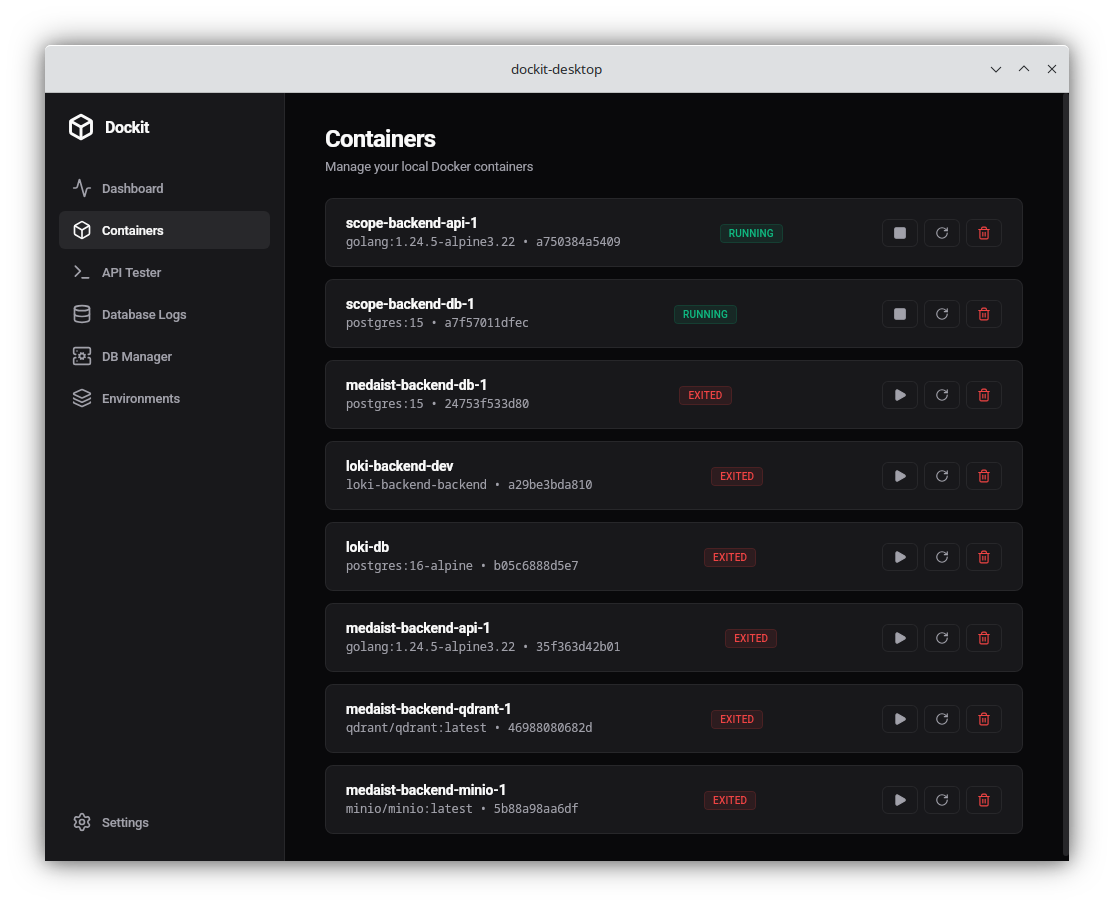
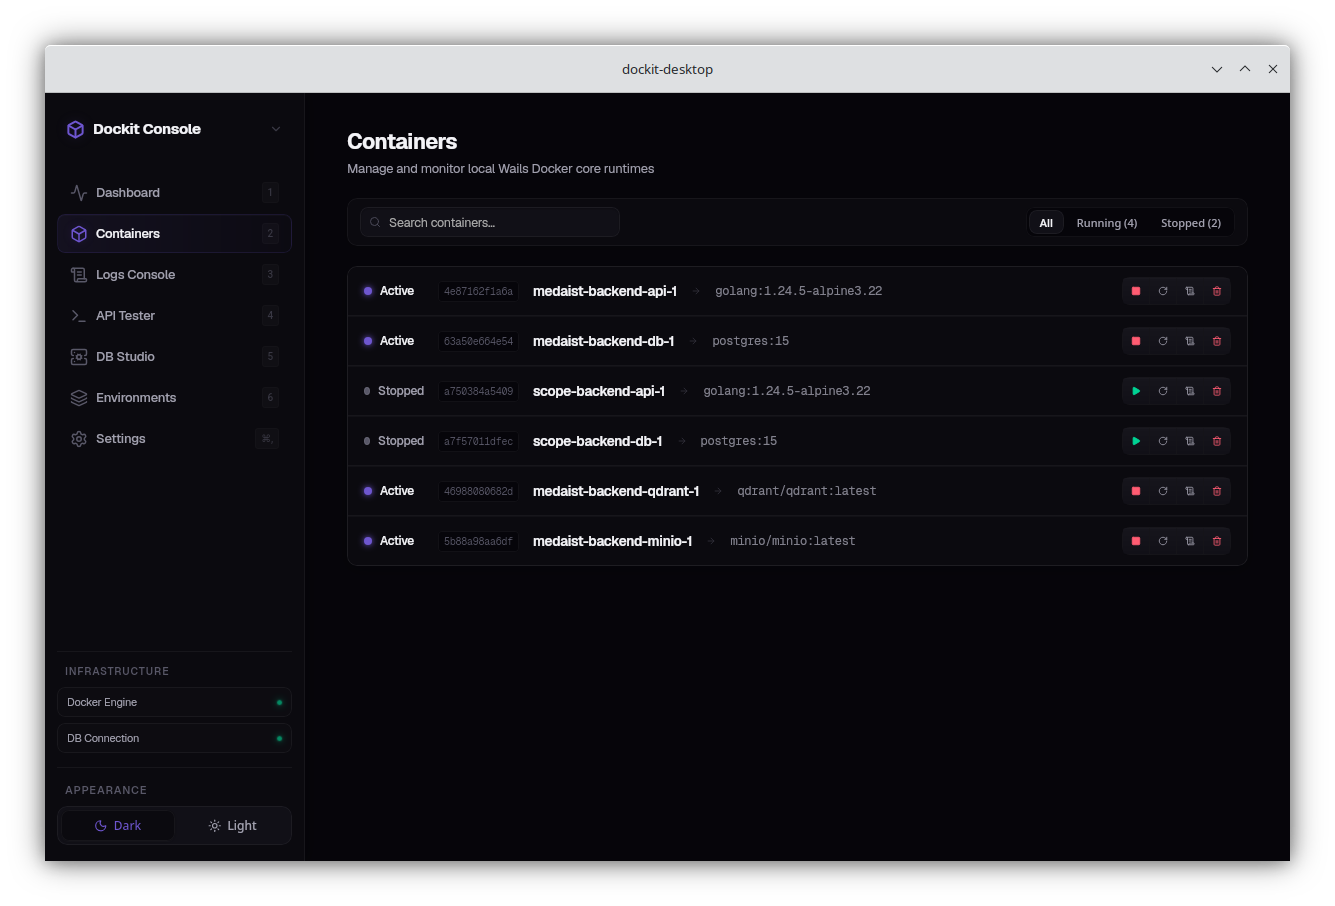
fix: update AI panel header parsing and synchronize documentation asset inventory

diff --git a/frontend/src/components/AIPanel.tsx b/frontend/src/components/AIPanel.tsx
@@ -102,11 +102,13 @@ export default function AIPanel({ onApply, activeUrl, activeMethod }: AIPanelPro
   };
 
   const handleApply = (item: domain.AICollectionItem) => {
-    let parsedHeaders = item.headers;
+    let parsedHeaders: Record<string, string> = {};
     if (typeof item.headers === 'string' && item.headers.trim() !== '') {
         try { parsedHeaders = JSON.parse(item.headers); } catch (e) {}
+    } else if (typeof item.headers === 'object' && item.headers !== null) {
+        parsedHeaders = item.headers as Record<string, string>;
     }
-    onApply(item.method, item.url, parsedHeaders || {}, item.payload || '');
+    onApply(item.method, item.url, parsedHeaders, item.payload || '');
   };
 
   const handleFileUpload = (e: React.ChangeEvent<HTMLInputElement>) => {